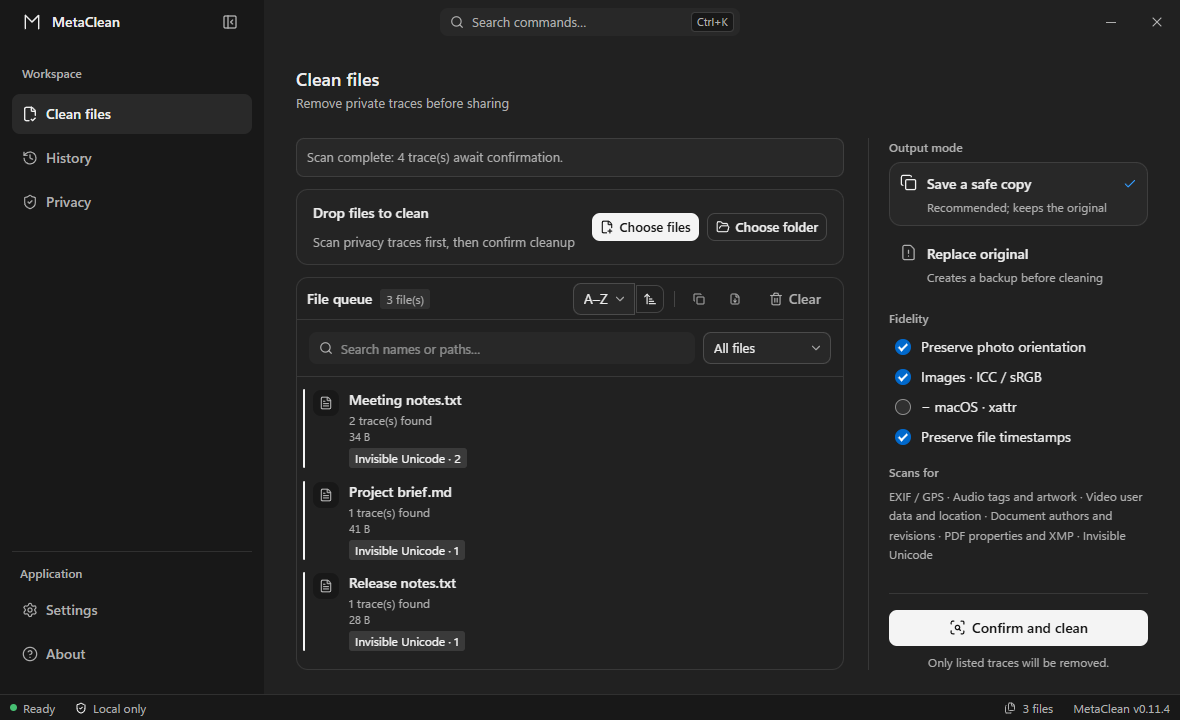
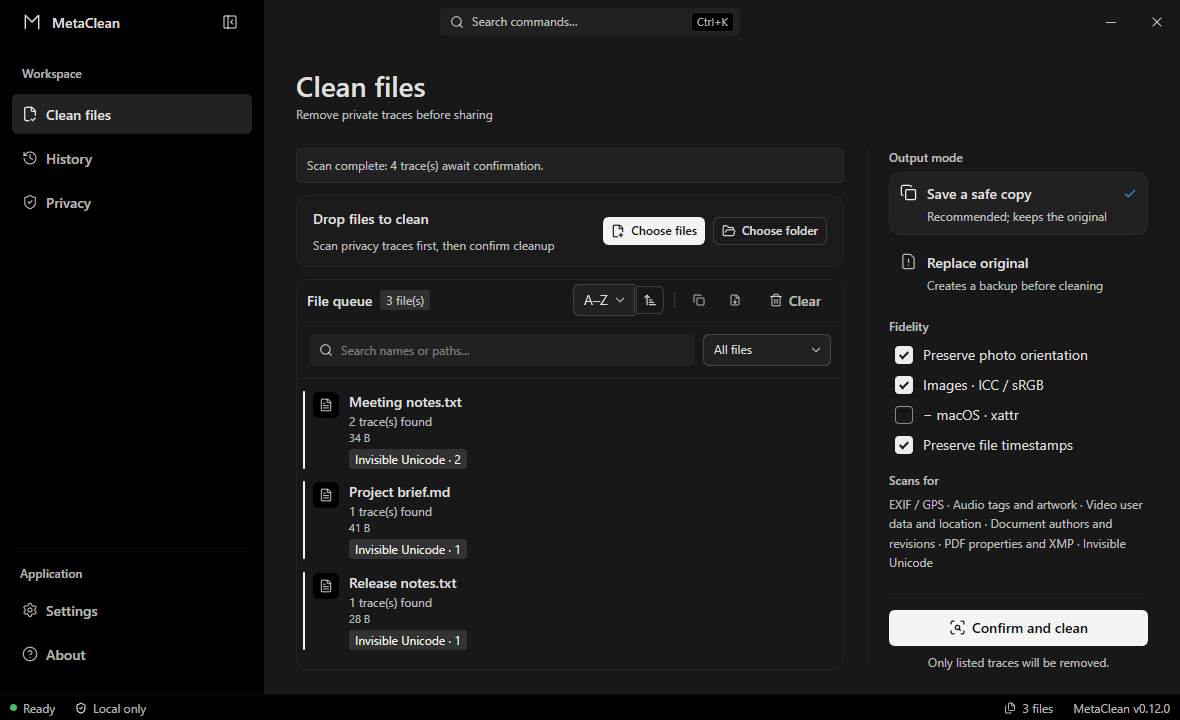
docs: 更新 v0.12.0 原生界面截图与验证记录

diff --git a/VALIDATION.md b/VALIDATION.md
@@ -1,8 +1,42 @@
 # MetaClean validation status
 
-Last audited: 2026-10-01
+Last audited: 2026-10-06
 
 This file records evidence, not intent. A row is complete only when the named artifact or runtime check exists.
+
+## v0.12.0 candidate and native captures — 2026-10-06
+
+The UI and release-tooling candidate is source
+`e4afee41700d5fe66d9dbd57059a71d786ae781b`. It has not been published;
+the latest qualified public version remains v0.11.10 below.
+
+- Local verification passed 428 frontend tests with 93.58% line coverage,
+  247 Windows native tests (ten ignored), strict all-target Clippy, formatting,
+  44 release automation tests, documentation/CSP/supply-chain checks and the
+  116-extension manifest gate. Production and documentation builds passed.
+  A threaded frontend attempt had a worker startup timeout; the complete
+  single-fork rerun passed all 22 test files without worker errors.
+- The rebuilt v0.12.0 Windows application passed eighteen desktop cases.
+  A new regression fails on the older binary with an overlay left edge of
+  264px instead of 0, and passes after root-mounted overlays. Theme/control
+  geometry, visible focus, full-window coverage and focus return are checked.
+- Independent [images 37355841002](https://github.com/Moresyl/metaclean/actions/runs/37355841002)
+  and [PDF 37355846497](https://github.com/Moresyl/metaclean/actions/runs/37355846497)
+  passed six HEIF/AVIF, sixteen JPEG, eight PNG and six PDF cases at this exact
+  source. Downloaded records were checked for case counts, unchanged JPEG
+  pixels/profiles and matching PNG frame/animation inspections.
+- Two localized native capture scenarios passed actual intake, scan, search,
+  safe-copy cleanup and settings. Fifteen PNGs and two finite-loop GIFs were
+  refreshed from this development build, using disposable synthetic files and
+  restoring prior preferences. English and Chinese default cleanup preferences
+  fit without scrolling. These captures are not public-installer qualification.
+- Browser review checked 1180×720 and 590×360 layouts, light/dark themes,
+  command search, the compact full-window confirmation and forced-color
+  navigation outlines. The official npm audit reports no known vulnerabilities
+  after targeted development dependency updates.
+
+Cross-platform CI and release/package qualification must finish before public
+v0.12.0 delivery can be claimed.
 
 ## Milestones
 
